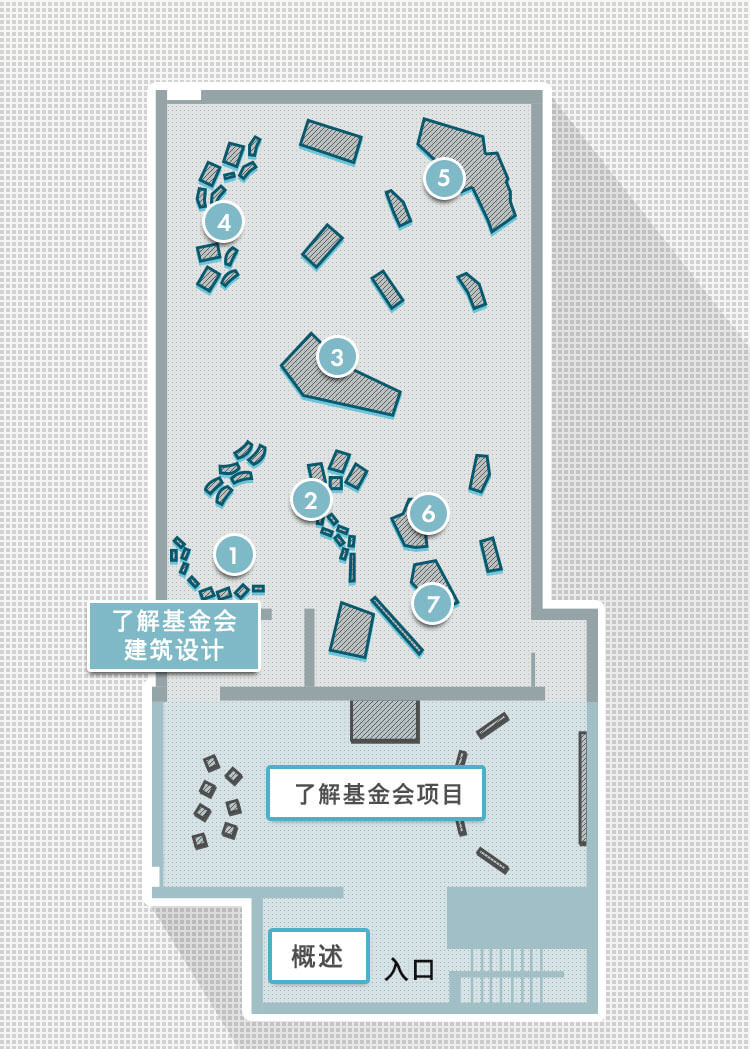
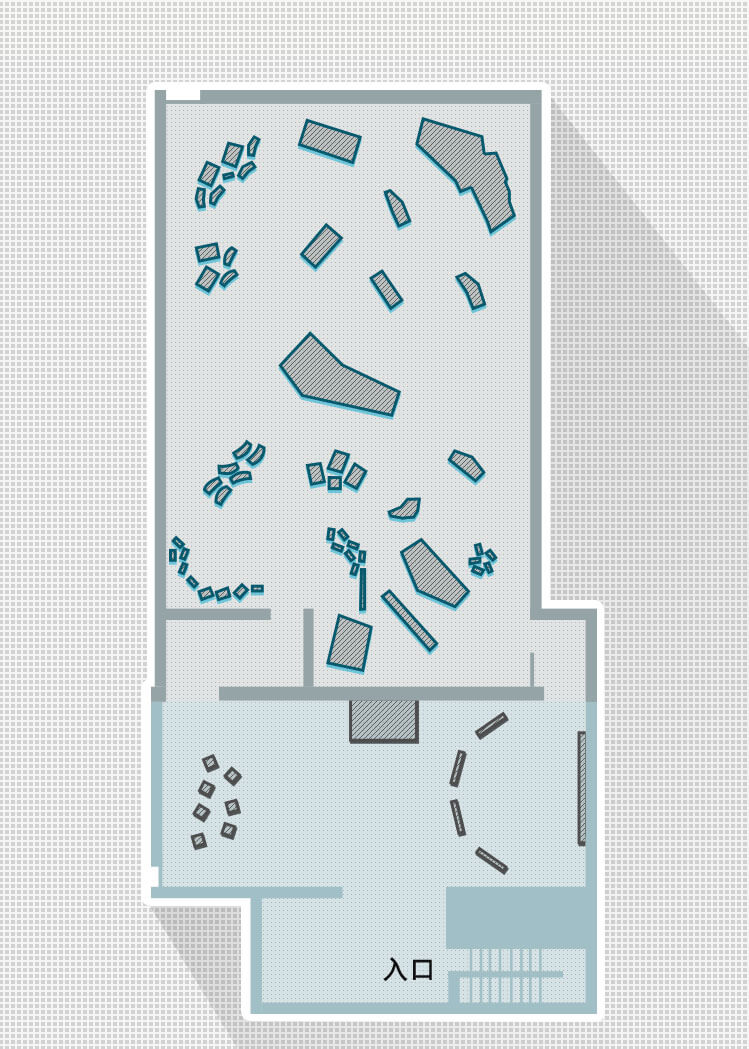
导览网站内地图上的  数字+“了解基金会建筑设计”+“了解基金会项目”+“概述”需要轮流闪动，提醒用户点击查

diff --git a/src/LV/Bundle/FondationBundle/Resources/public/css/guide-style.css b/src/LV/Bundle/FondationBundle/Resources/public/css/guide-style.css
@@ -29,19 +29,20 @@ body {
 	position: absolute;
 	left: 0;
 	top: 0;
-	/*background: green;
+	/*background: #fff;
 	opacity: 0.6;*/
 }
 
 .mapArea a.link-0{
-	left: 35%;
+	width: 44px;
+	left: 36%;
 	top: 86%;
 }
 
 .mapArea a.link-1{
-	width: 100px;
+	width: 96px;
 	left: 35%;
-	top: 70%;
+	top: 73%;
 }
 
 .mapArea a.link-2{
@@ -53,7 +54,7 @@ body {
 
 .mapArea a.link-3{
 	left: 23%;
-	top: 49%;
+	top: 47%;
 }
 
 .mapArea a.link-4{
@@ -68,7 +69,7 @@ body {
 
 .mapArea a.link-6{
 	left: 22%;
-	top: 15%;
+	top: 16%;
 }
 
 .mapArea a.link-7{
@@ -86,8 +87,29 @@ body {
 	top: 52%;
 }
 
+.mapArea a span{
+	width: 100%;
+	height: 100%;
+	display: inline-block;
+}
 
+.mapArea a.link-0 span img{
+	margin: 12px 0 0 0;
+	display: inline-block;
+}
 
+.mapArea a.link-3 span,.mapArea a.link-4 span,.mapArea a.link-5 span,.mapArea a.link-6 span,.mapArea a.link-7 span,.mapArea a.link-8 span,.mapArea a.link-9 span{
+	width: 46%;
+	height: 46%;
+	position: absolute;
+	left: 50%;
+	top: 50%;
+	margin: -23% 0 0 -23%;
+}
+
+.ugckv img{
+	width: 100%;
+}
 
 /* mapInfo */
 
@@ -219,6 +241,285 @@ body {
     -webkit-overflow-scrolling: touch; 
     -o-overflow-scrolling: touch;  
 }
+
+
+
+
+
+
+
+
+
+
+
+
+
+/* focus animate */
+/*.link-0{
+	animation: clound 1 2.5s linear;
+    -webkit-animation: clound 1 2.5s linear;
+    -moz-animation: clound 1 2.5s linear;
+}*/
+
+
+@-webkit-keyframes rubberBand {
+  0% {
+    -webkit-transform: scale3d(1, 1, 1);
+    transform: scale3d(1, 1, 1);
+  }
+
+  30% {
+    -webkit-transform: scale3d(1.25, 0.75, 1);
+    transform: scale3d(1.25, 0.75, 1);
+  }
+
+  40% {
+    -webkit-transform: scale3d(0.75, 1.25, 1);
+    transform: scale3d(0.75, 1.25, 1);
+  }
+
+  50% {
+    -webkit-transform: scale3d(1.15, 0.85, 1);
+    transform: scale3d(1.15, 0.85, 1);
+  }
+
+  65% {
+    -webkit-transform: scale3d(.95, 1.05, 1);
+    transform: scale3d(.95, 1.05, 1);
+  }
+
+  75% {
+    -webkit-transform: scale3d(1.05, .95, 1);
+    transform: scale3d(1.05, .95, 1);
+  }
+
+  100% {
+    -webkit-transform: scale3d(1, 1, 1);
+    transform: scale3d(1, 1, 1);
+  }
+}
+
+@keyframes rubberBand {
+  0% {
+    -webkit-transform: scale3d(1, 1, 1);
+    transform: scale3d(1, 1, 1);
+  }
+
+  30% {
+    -webkit-transform: scale3d(1.25, 0.75, 1);
+    transform: scale3d(1.25, 0.75, 1);
+  }
+
+  40% {
+    -webkit-transform: scale3d(0.75, 1.25, 1);
+    transform: scale3d(0.75, 1.25, 1);
+  }
+
+  50% {
+    -webkit-transform: scale3d(1.15, 0.85, 1);
+    transform: scale3d(1.15, 0.85, 1);
+  }
+
+  65% {
+    -webkit-transform: scale3d(.95, 1.05, 1);
+    transform: scale3d(.95, 1.05, 1);
+  }
+
+  75% {
+    -webkit-transform: scale3d(1.05, .95, 1);
+    transform: scale3d(1.05, .95, 1);
+  }
+
+  100% {
+    -webkit-transform: scale3d(1, 1, 1);
+    transform: scale3d(1, 1, 1);
+  }
+}
+
+/*.link-0 {
+  -webkit-animation-name: rubberBand;
+  animation-name: rubberBand;
+
+  -webkit-animation-duration: 1s;
+  animation-duration: 1s;
+  -webkit-animation-fill-mode: both;
+  animation-fill-mode: both;
+}*/
+
+
+
+@-webkit-keyframes bounceIn {
+  0%, 20%, 40%, 60%, 80%, 100% {
+    -webkit-animation-timing-function: cubic-bezier(0.215, 0.610, 0.355, 1.000);
+    animation-timing-function: cubic-bezier(0.215, 0.610, 0.355, 1.000);
+  }
+
+  0% {
+    opacity: 0;
+    -webkit-transform: scale3d(.3, .3, .3);
+    transform: scale3d(.3, .3, .3);
+  }
+
+  20% {
+    -webkit-transform: scale3d(1.1, 1.1, 1.1);
+    transform: scale3d(1.1, 1.1, 1.1);
+  }
+
+  40% {
+    -webkit-transform: scale3d(.9, .9, .9);
+    transform: scale3d(.9, .9, .9);
+  }
+
+  60% {
+    opacity: 1;
+    -webkit-transform: scale3d(1.03, 1.03, 1.03);
+    transform: scale3d(1.03, 1.03, 1.03);
+  }
+
+  80% {
+    -webkit-transform: scale3d(.97, .97, .97);
+    transform: scale3d(.97, .97, .97);
+  }
+
+  100% {
+    opacity: 1;
+    -webkit-transform: scale3d(1, 1, 1);
+    transform: scale3d(1, 1, 1);
+  }
+}
+
+@keyframes bounceIn {
+  0%, 20%, 40%, 60%, 80%, 100% {
+    -webkit-animation-timing-function: cubic-bezier(0.215, 0.610, 0.355, 1.000);
+    animation-timing-function: cubic-bezier(0.215, 0.610, 0.355, 1.000);
+  }
+
+  0% {
+    opacity: 0;
+    -webkit-transform: scale3d(.3, .3, .3);
+    transform: scale3d(.3, .3, .3);
+  }
+
+  20% {
+    -webkit-transform: scale3d(1.1, 1.1, 1.1);
+    transform: scale3d(1.1, 1.1, 1.1);
+  }
+
+  40% {
+    -webkit-transform: scale3d(.9, .9, .9);
+    transform: scale3d(.9, .9, .9);
+  }
+
+  60% {
+    opacity: 1;
+    -webkit-transform: scale3d(1.03, 1.03, 1.03);
+    transform: scale3d(1.03, 1.03, 1.03);
+  }
+
+  80% {
+    -webkit-transform: scale3d(.97, .97, .97);
+    transform: scale3d(.97, .97, .97);
+  }
+
+  100% {
+    opacity: 1;
+    -webkit-transform: scale3d(1, 1, 1);
+    transform: scale3d(1, 1, 1);
+  }
+}
+
+.bounceIn {
+  -webkit-animation-name: bounceIn;
+  animation-name: bounceIn;
+
+  -webkit-animation-duration: 1s;
+  animation-duration: 1s;
+  -webkit-animation-fill-mode: both;
+  animation-fill-mode: both;
+}
+
+
+
+
+
+
+/* ------ 媒体查询 ------- */
+
+/* plus6 */
+@media only screen and (min-device-width: 414px) and (max-device-width: 736px) and (orientation: portrait) {
+
+	.ugckv img{
+		width: 109%;
+		margin: 0 0 0 -4.5%;
+	}
+
+	.mapArea a.link-3 span,.mapArea a.link-4 span,.mapArea a.link-5 span,.mapArea a.link-6 span,.mapArea a.link-7 span,.mapArea a.link-8 span,.mapArea a.link-9 span{
+		width: 56%;
+		height: 56%;
+		margin: -28% 0 0 -28%;
+	}
+
+	.mapArea a.link-0{
+		width: 55px;
+		top: 86.5%;
+	}
+
+	.mapArea a.link-1{
+		width: 125px;
+	}
+
+	.mapArea a.link-2{
+		width: 100px;
+	}
+
+	.mapArea a.link-3{
+		left: 25%;
+		top: 49%;
+	}
+
+	.mapArea a.link-4{
+		left: 35%;
+		top: 44%;
+	}
+
+	.mapArea a.link-5{
+		left: 39%;
+		top: 30%;
+	}
+
+	.mapArea a.link-6{
+		left: 24%;
+		top: 17%;
+	}
+
+	.mapArea a.link-7{
+		left: 53%;
+		top: 13%;
+	}
+
+	.mapArea a.link-8{
+		left: 51%;
+		top: 45%;
+	}
+
+	.mapArea a.link-9{
+		left: 51%;
+		top: 53%;
+	}
+}
+
+
+
+
+
+
+
+
+
+
+
+
+
 
 
 
